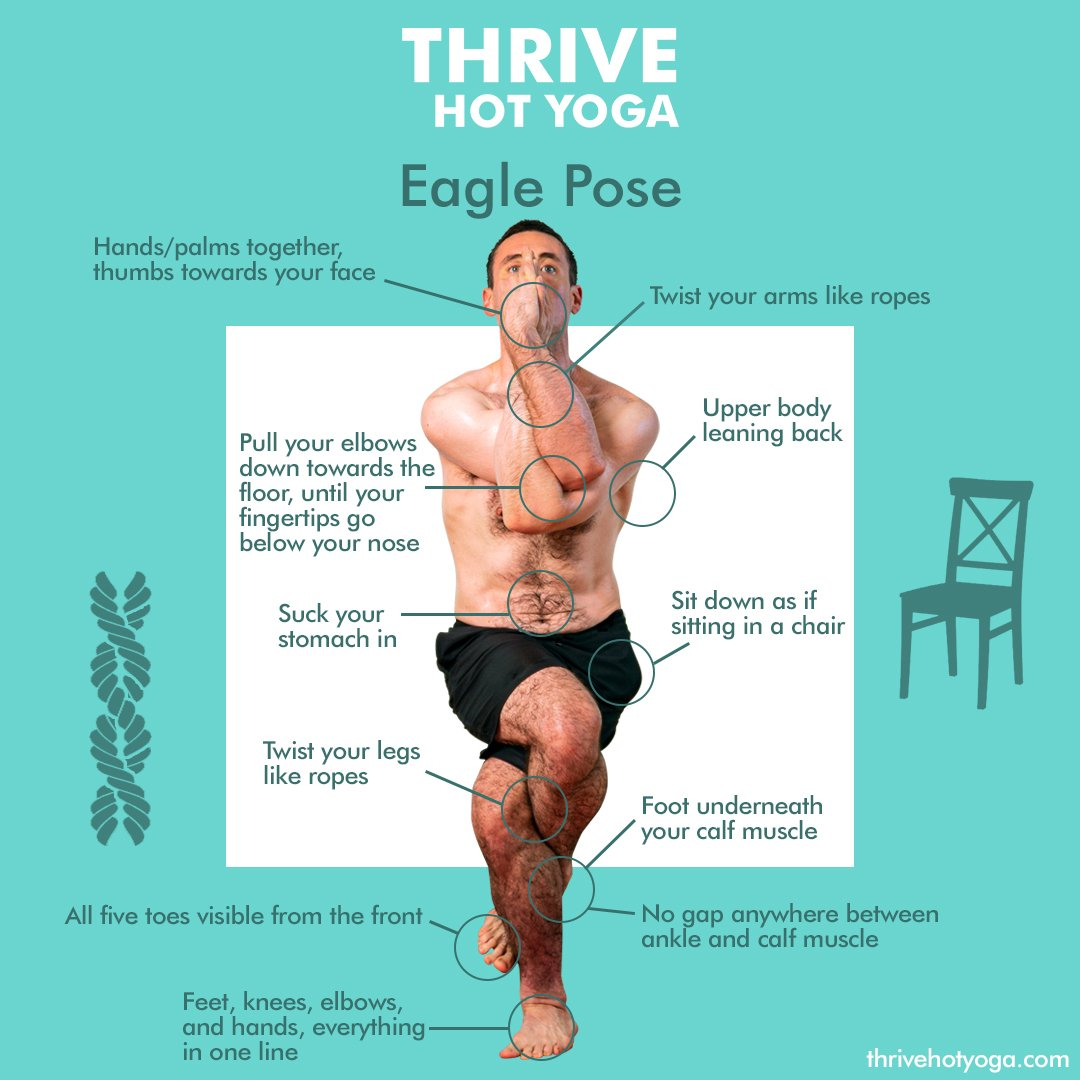
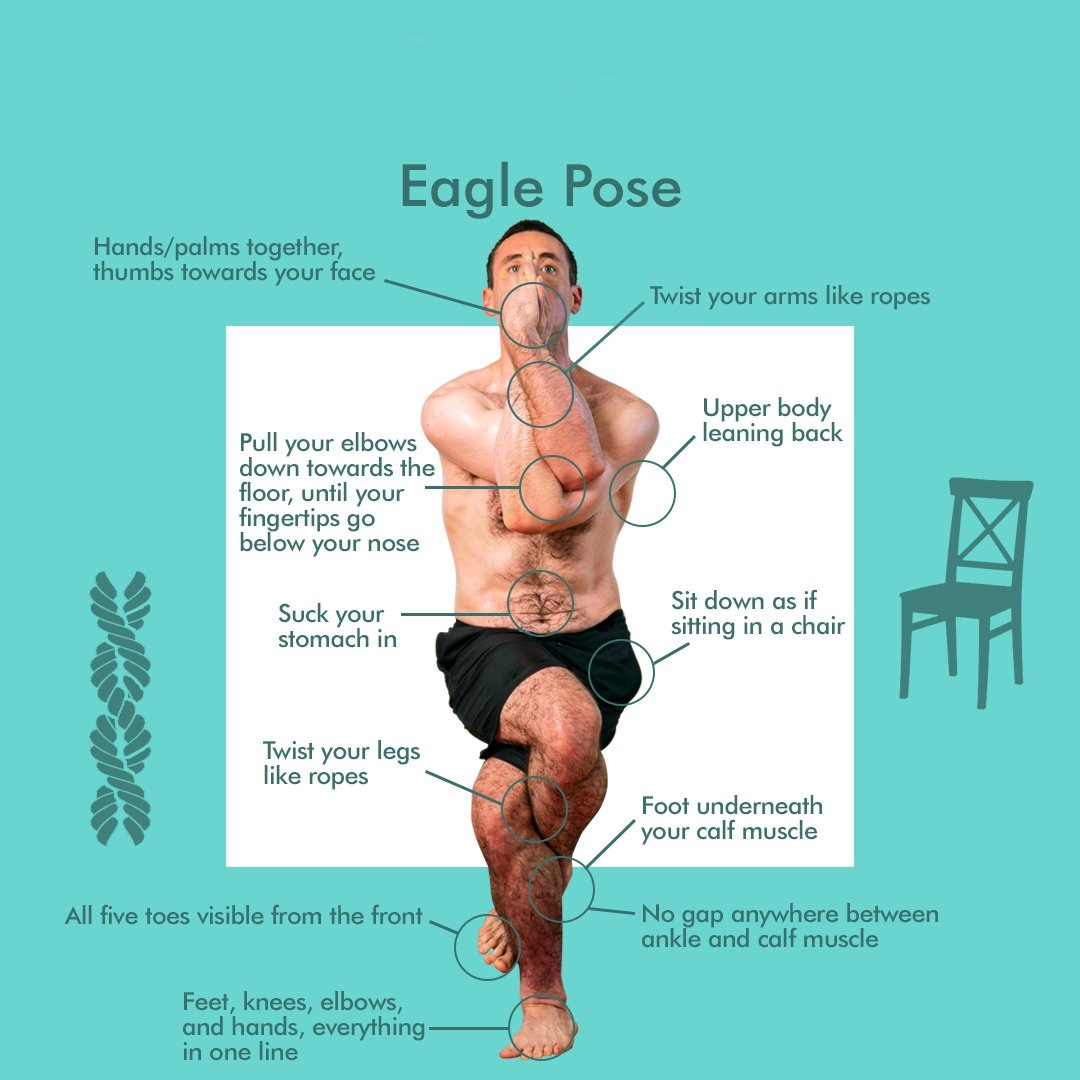
workout exercise

Changed region(s): [[0.3667, 0.0, 0.6417, 0.1222], [0.7944, 0.9778, 1.0, 1.0]]

diff --git a/Daily-UI-41 Workout Exercise/style.css b/Daily-UI-41 Workout Exercise/style.css
@@ -9,6 +9,8 @@ body {
   min-height: 100%;
   margin: 30px;
   background-color: #69d4cf;
+  color: white;
+  overflow: hidden;
 }
 .image {
   display: flex;
@@ -18,11 +20,25 @@ body {
   border-radius: 25%;
 }
 .image img {
-  height: 320px;
-  width: 320px;
+  height: 420px;
+  width: 420px;
+  margin-bottom: 20px;
 }
 .container {
-  background: url("./lotus-yoga.svg") center / cover no-repeat;
+  /* background: url("./lotus-yoga.svg") bottom no-repeat; */
+
+  /* height: 880px; */
+}
+.container::before {
+  content: "";
+  background: url("./lotus-yoga.svg") bottom no-repeat;
+  opacity: 0.5;
+  position: absolute;
+  top: 0;
+  left: 0;
+  width: 100%;
+  height: 100%;
+  z-index: -1; /* Ensure it stays behind other content */
 }
 .card {
   height: 400px;
@@ -36,11 +52,11 @@ body {
 .footer {
   margin-bottom: 2em;
 }
-.header,
+/* .header,
 .footer {
   flex-grow: 0;
   flex-shrink: 0;
 }
 .container {
   flex-grow: 1;
-}
+} */

diff --git a/Daily-UI-41 Workout Exercise/index.html b/Daily-UI-41 Workout Exercise/index.html
@@ -8,7 +8,7 @@
   </head>
   <body>
     <div class="container">
-      <div class="header"><h1>Garudasana (Eagle Pose)</h1></div>
+      <!-- <div class="header"><p>Garudasana (Eagle Pose)</p></div> -->
       <div class="image">
         <img src="./Posture_Hot+Yoga_Eagle+Pose.jpg" alt="eagle" />
       </div>
